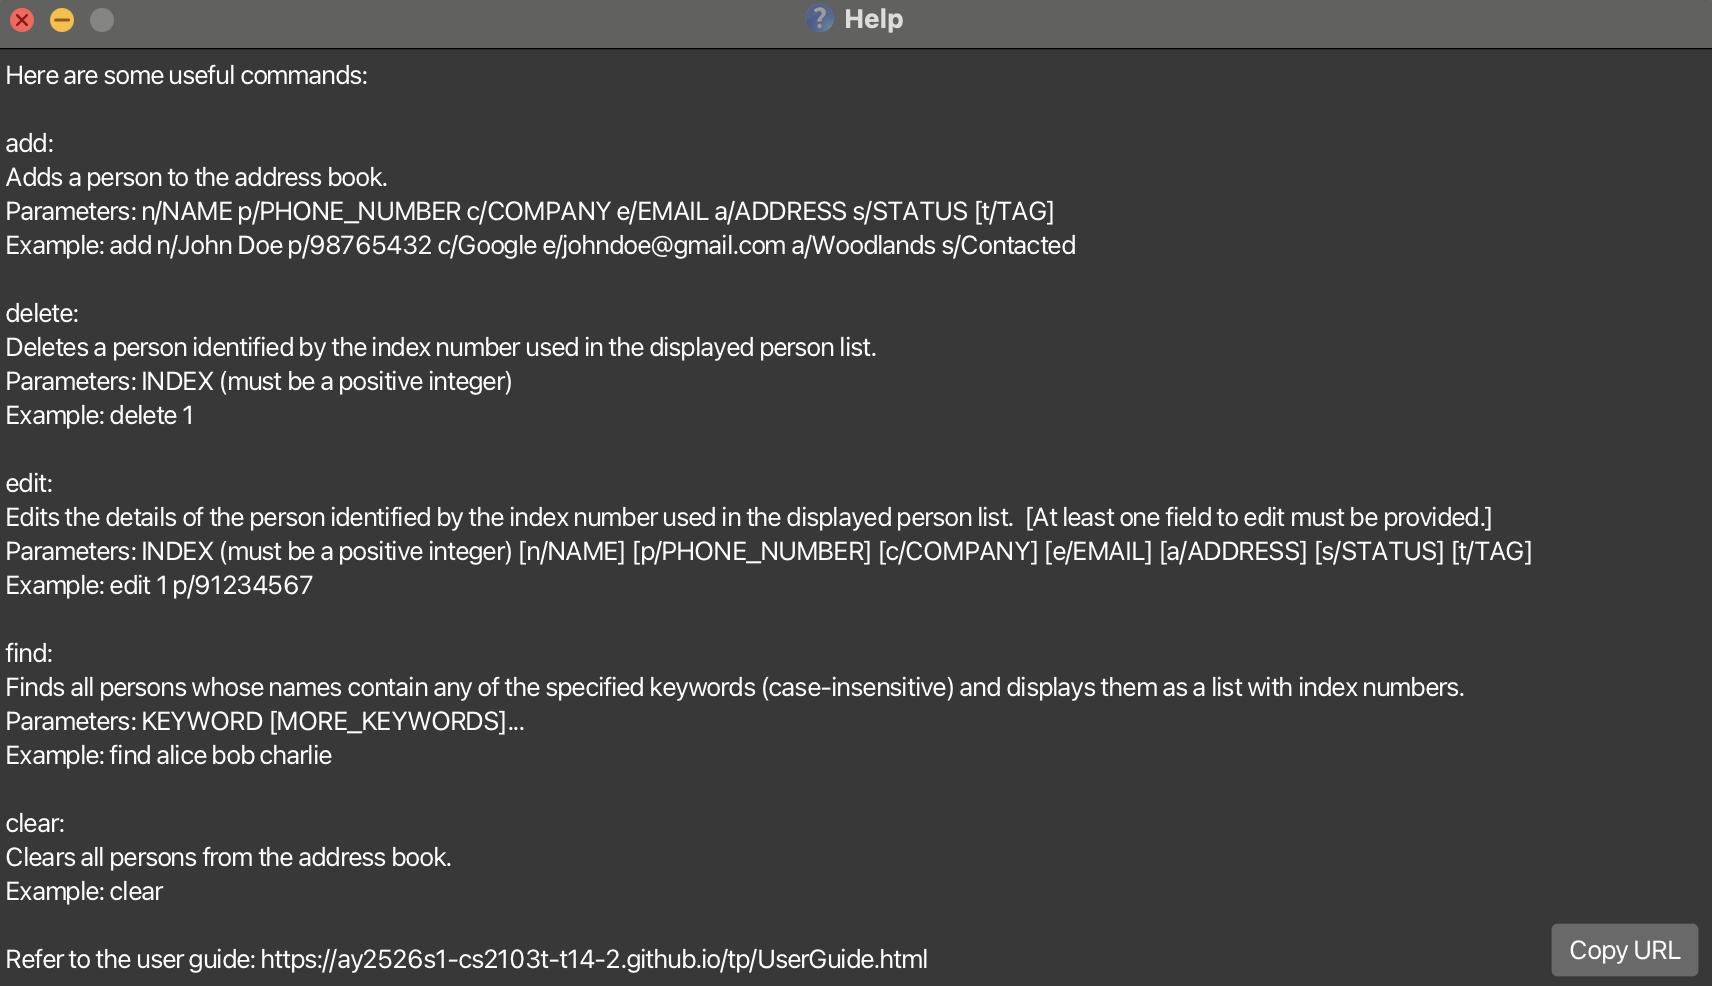
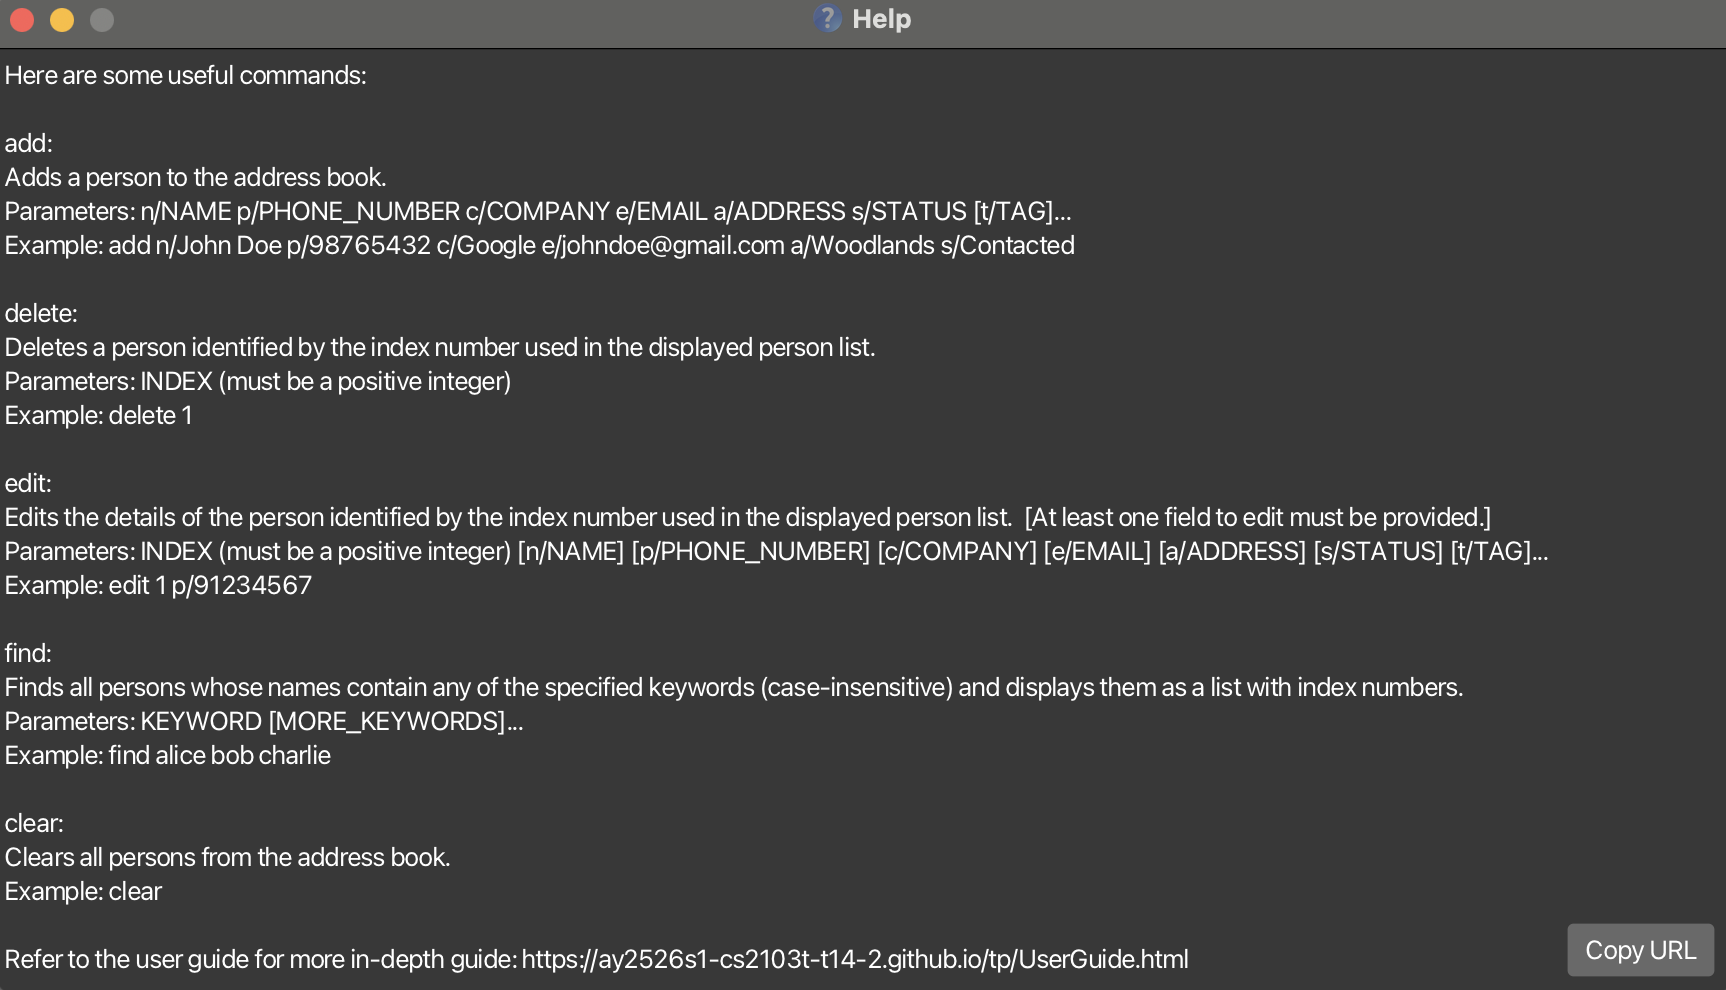
Minor touch up to HelpWindow
There are some typos in the helpWindow.

This may confuse the user when they are viewing
the help window.

Touch up on bugs and typos in the code.

diff --git a/src/main/java/seedu/address/ui/HelpWindow.java b/src/main/java/seedu/address/ui/HelpWindow.java
@@ -20,7 +20,7 @@ public class HelpWindow extends UiPart<Stage> {
 
     public static final String ADD_COMMAND_HELP = "add:\nAdds a person to the address book. "
                 + "\nParameters: n/NAME p/PHONE_NUMBER c/COMPANY e/EMAIL a/ADDRESS "
-                + "s/STATUS [t/TAG]\n"
+                + "s/STATUS [t/TAG]...\n"
                 + "Example: add n/John Doe p/98765432 c/Google e/johndoe@gmail.com a/Woodlands s/Contacted";
 
     public static final String DELETE_COMMAND_HELP = "delete:\nDeletes a person identified by the index number "
@@ -32,7 +32,7 @@ public class HelpWindow extends UiPart<Stage> {
                 + "number used in the displayed person list. "
                 + " [At least one field to edit must be provided.]\n"
                 + "Parameters: INDEX (must be a positive integer) "
-                + "[n/NAME] [p/PHONE_NUMBER] [c/COMPANY] [e/EMAIL] [a/ADDRESS] [s/STATUS] [t/TAG]\n"
+                + "[n/NAME] [p/PHONE_NUMBER] [c/COMPANY] [e/EMAIL] [a/ADDRESS] [s/STATUS] [t/TAG]...\n"
                 + "Example: edit 1 p/91234567";
 
     public static final String FIND_COMMAND_HELP = "find:\nFinds all persons whose names contain any of "
